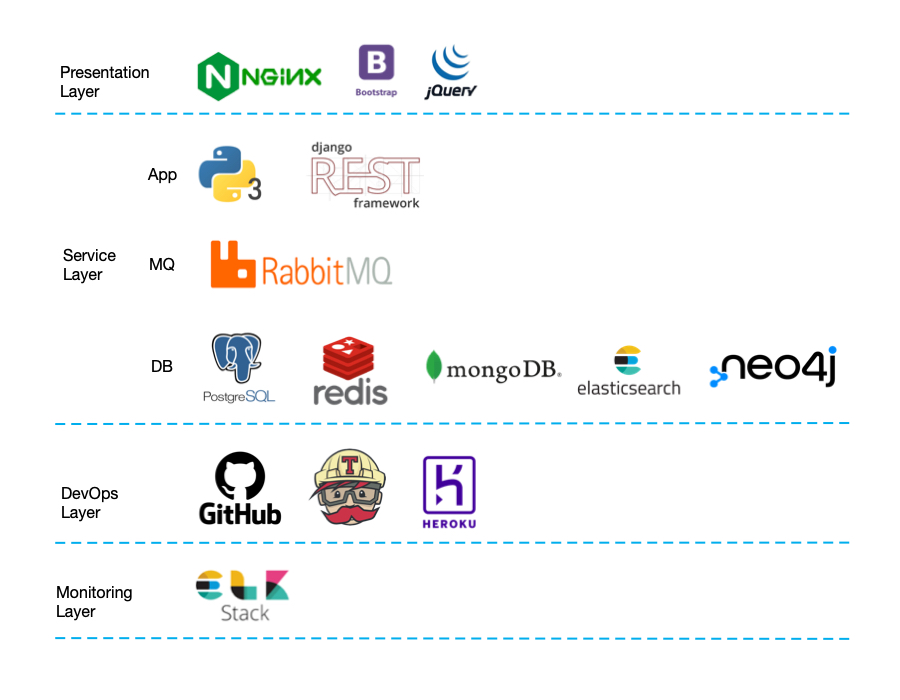
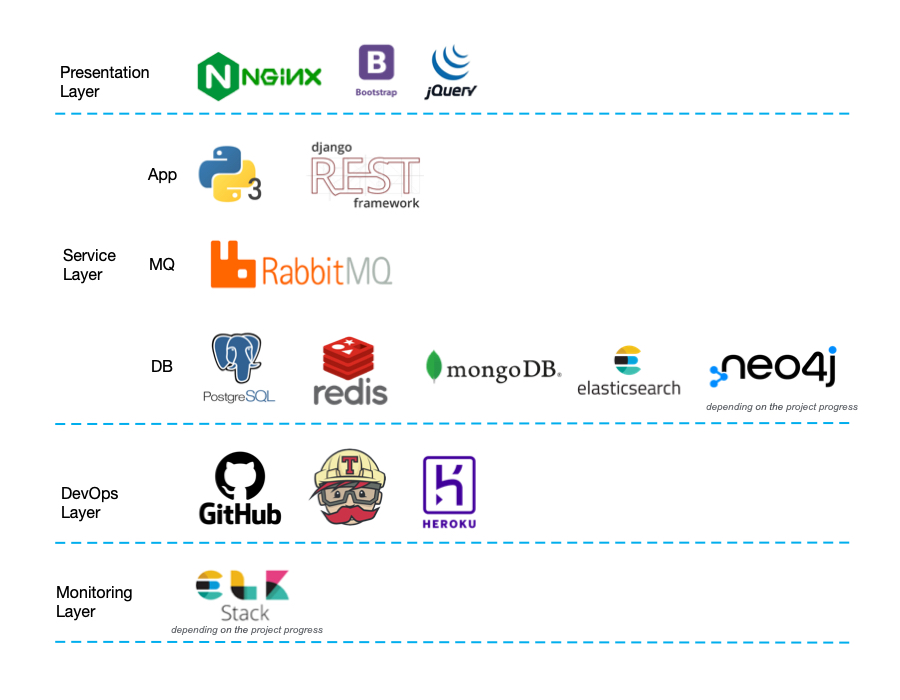
GitBook: [#11] Updating the graph of tech stack

Changed region(s): [[0.0622, 0.9, 0.9333, 0.93], [0.7778, 0.57, 0.9644, 0.6]]

diff --git a/analysis-and-designs/tech-analysis/tech-architecture.md b/analysis-and-designs/tech-analysis/tech-architecture.md
@@ -1,3 +1,3 @@
 # Tech Architecture
 
-![](<../../.gitbook/assets/tech architecture.jpg>)
+![](<../../.gitbook/assets/tech architecture (1).jpg>)
